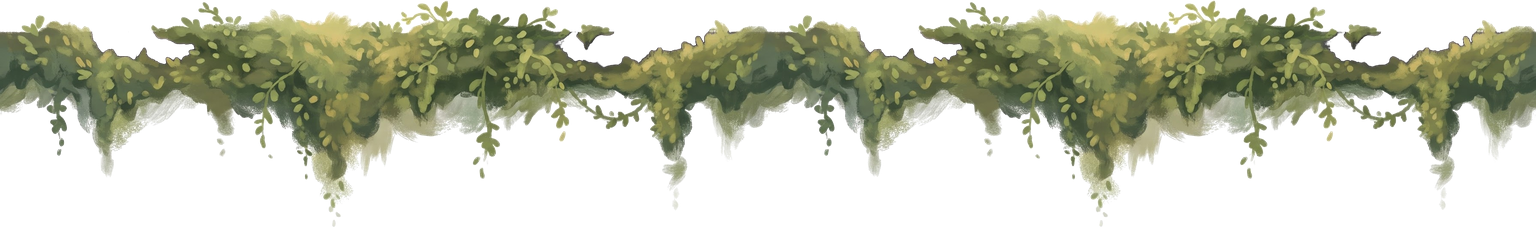
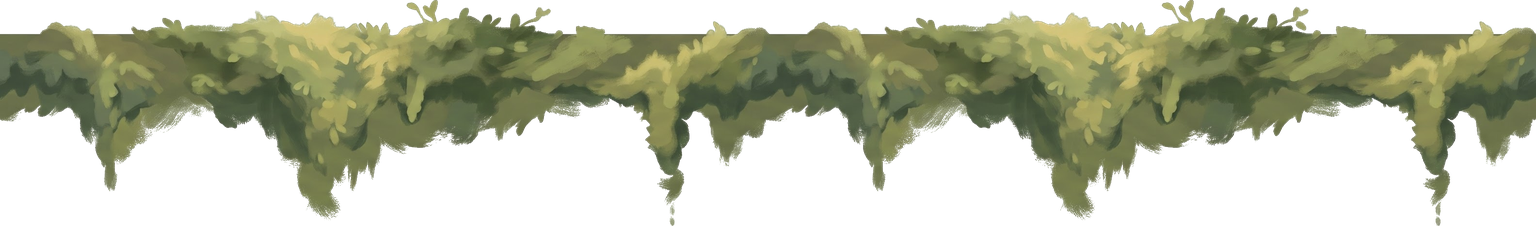
Quill & Sigil v109: smoother painted moss along stone blocks

diff --git a/quill-and-sigil/js/world.js b/quill-and-sigil/js/world.js
@@ -2117,9 +2117,9 @@ function cornerCurve(g, c, k) {
     for (const [b0, b1, Rs] of halves) {
       const As = [0, 1, 2, 3, 4].map(i => b0 + (b1 - b0) * i / 4), e0 = ew(b0), e1 = ew(b1);
       const strip = (z0, z1) => [...As.map(a => P(a, z0)), ...As.slice().reverse().map(a => P(a, z1))];
-      const hz = Math.min(0.72, tall * 0.7);
+      const hz = Math.min(0.5, tall * 0.6);
       mossOn(g, Rs ? 0.32 : 0, false, e0, e1, strip(top, Math.max(zb, top - hz - 0.02)), top, hz);
-      if (tall >= 0.3) { const hf = Math.min(0.42, tall * 0.4); mossOn(g, Rs ? 0.45 : 0.2, true, e0, e1, strip(zb + hf, zb), zb, hf); }
+      if (tall >= 0.3) { const hf = Math.min(0.34, tall * 0.35); mossOn(g, Rs ? 0.45 : 0.2, true, e0, e1, strip(zb + hf, zb), zb, hf); }
     }
   }
 }
@@ -2954,7 +2954,7 @@ function drawWater(g, c, d, t) {
 const SPRITE = {};
 for (const k of ['bramble1', 'bramble2', 'bramble3', 'brazier', 'goal', 'vine-leafy', 'vine-moss', 'vine-roots', 'ivy1', 'ivy2', 'ivy3', 'moss-drape', 'moss-lip']) {
   if (typeof Image === 'undefined') break;
-  const im = new Image(); im.onload = () => { SPRITE[k] = im; }; im.src = `art/${k}.png?v=6`;
+  const im = new Image(); im.onload = () => { SPRITE[k] = im; }; im.src = `art/${k}.png?v=7`;
 }
 // a painting darkened to sit on a wall in shade (made once each)
 const shadeCache = {};
@@ -2973,7 +2973,7 @@ function ivyFor(seed) {
 }
 /* Moss along a stone block's top edge: the painted strip, repeating along the wall (by u = x - y, so it runs on
    unbroken from block to block), its dense band just at the edge and its drips hanging down the stone. */
-const lipPats = new WeakMap(), LIP_EDGE = 36;
+const lipPats = new WeakMap(), LIP_EDGE = 34;
 // the moss strip as a pattern on this canvas, darkened by f (for walls in shade, and the shadowed foot of a wall)
 function mossPat(g, f) {
   const src = f ? shadedSprite('moss-lip', f) : SPRITE['moss-lip']; if (!src) return null;
@@ -2985,7 +2985,7 @@ function mossPat(g, f) {
 // u = x - y like the wall textures, so it carries on unbroken from wall to wall and round a curved corner.
 function mossOn(g, f, foot, e0, e1, quad, zEdge, hz) {
   const P = mossPat(g, f); if (!P) return false;
-  const im = SPRITE['moss-lip'], W = im.naturalWidth, H = im.naturalHeight, UX = W / (foot ? 1.2 : 1.5), UY = H / hz, s = cam.s;
+  const im = SPRITE['moss-lip'], W = im.naturalWidth, H = im.naturalHeight, UX = W / (foot ? 2.6 : 3), UY = H / hz, s = cam.s;
   const u0 = e0[0] - e0[1], du = (e1[0] - e1[1]) - u0, Y0 = (e0[0] + e0[1]) * TH * 0.5, Y1 = (e1[0] + e1[1]) * TH * 0.5;
   const m = Math.abs(du) > 1e-4 ? (Y1 - Y0) / du : 0, zo = foot ? zEdge - LIP_EDGE / UY : zEdge + LIP_EDGE / UY;
   const a = TW * 0.5 * s / UX, b = m * s / UX, sh = foot ? 0.37 * UX : 0;
@@ -2995,14 +2995,15 @@ function mossOn(g, f, foot, e0, e1, quad, zEdge, hz) {
 }
 function mossLip(g, c, R, top, sb, u0, u1) {
   if (!SPRITE['moss-lip']) return false;
-  const hz = Math.min(0.72, (top - sb) * 0.7), at = (u, z) => R ? proj(c.x + 1, c.y + u, z) : proj(c.x + u, c.y + 1, z), w = u => R ? [c.x + 1, c.y + u] : [c.x + u, c.y + 1];
+  // near the painting's own proportions (stretched taller, its clumps turn to strings)
+  const hz = Math.min(0.5, (top - sb) * 0.6), at = (u, z) => R ? proj(c.x + 1, c.y + u, z) : proj(c.x + u, c.y + 1, z), w = u => R ? [c.x + 1, c.y + u] : [c.x + u, c.y + 1];
   const zb = Math.max(sb, top - hz - 0.02);
   return mossOn(g, R ? 0.32 : 0, false, w(u0), w(u1), [at(u0, top), at(u1, top), at(u1, zb), at(u0, zb)], top, hz);
 }
 // moss and grass creeping up the foot of a stone wall from the ground it stands on
 function mossFoot(g, c, R, top, sb, u0, u1) {
   if (!SPRITE['moss-lip'] || top - sb < 0.3 || u1 - u0 < 0.01) return;
-  const hz = Math.min(0.42, (top - sb) * 0.4), at = (u, z) => R ? proj(c.x + 1, c.y + u, z) : proj(c.x + u, c.y + 1, z), w = u => R ? [c.x + 1, c.y + u] : [c.x + u, c.y + 1];
+  const hz = Math.min(0.34, (top - sb) * 0.35), at = (u, z) => R ? proj(c.x + 1, c.y + u, z) : proj(c.x + u, c.y + 1, z), w = u => R ? [c.x + 1, c.y + u] : [c.x + u, c.y + 1];
   mossOn(g, R ? 0.45 : 0.2, true, w(u0), w(u1), [at(u0, sb + hz), at(u1, sb + hz), at(u1, sb), at(u0, sb)], sb, hz);
 }
 // a drape of moss hanging from a wall's top edge at p: wU wide along the edge, hZ tall, sheared to lie on the wall

diff --git a/quill-and-sigil/index.html b/quill-and-sigil/index.html
@@ -528,9 +528,9 @@
   </div>
 </div>
 
-<script src="js/ink.js?v=108"></script>
-<script src="js/world.js?v=108"></script>
-<script src="js/tips.js?v=108"></script>
-<script src="js/main.js?v=108"></script>
+<script src="js/ink.js?v=109"></script>
+<script src="js/world.js?v=109"></script>
+<script src="js/tips.js?v=109"></script>
+<script src="js/main.js?v=109"></script>
 </body>
 </html>

diff --git a/quill-and-sigil/sw.js b/quill-and-sigil/sw.js
@@ -2,7 +2,7 @@
    The game's own files are fetched fresh when there is a connection (so updates arrive at once)
    and served from the cache when there is not. Fonts are cached on first use.
    Bump VERSION together with the ?v=N script versions in index.html. */
-const VERSION = 108;
+const VERSION = 109;
 const CACHE = 'quill-sigil-v' + VERSION;
 const CORE = [
   './',
